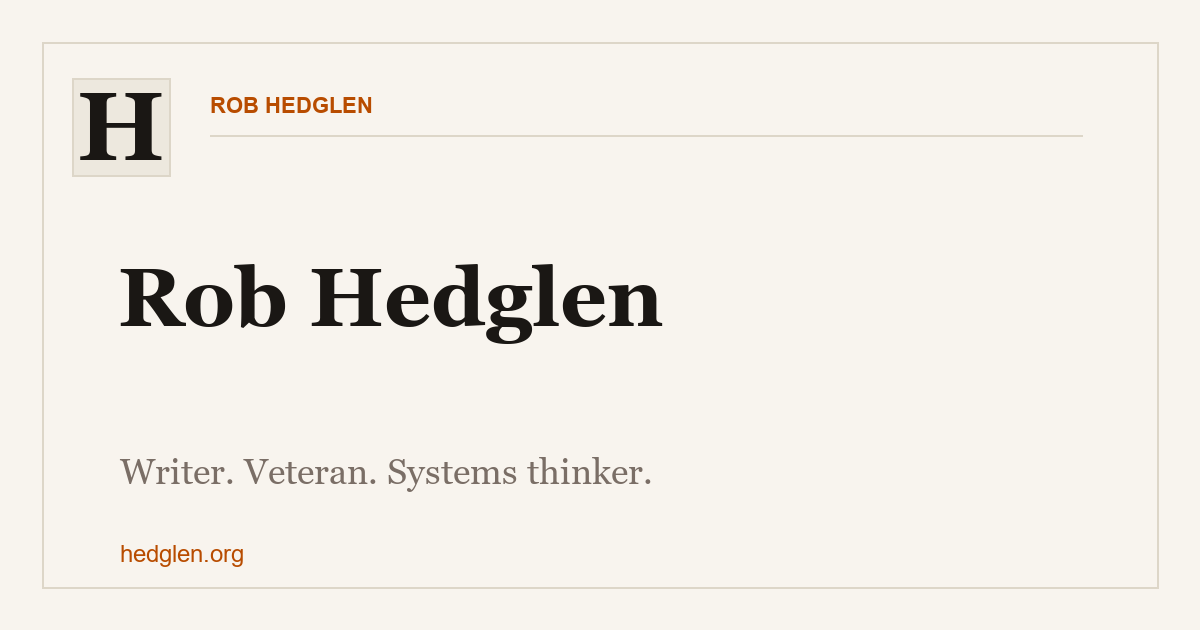
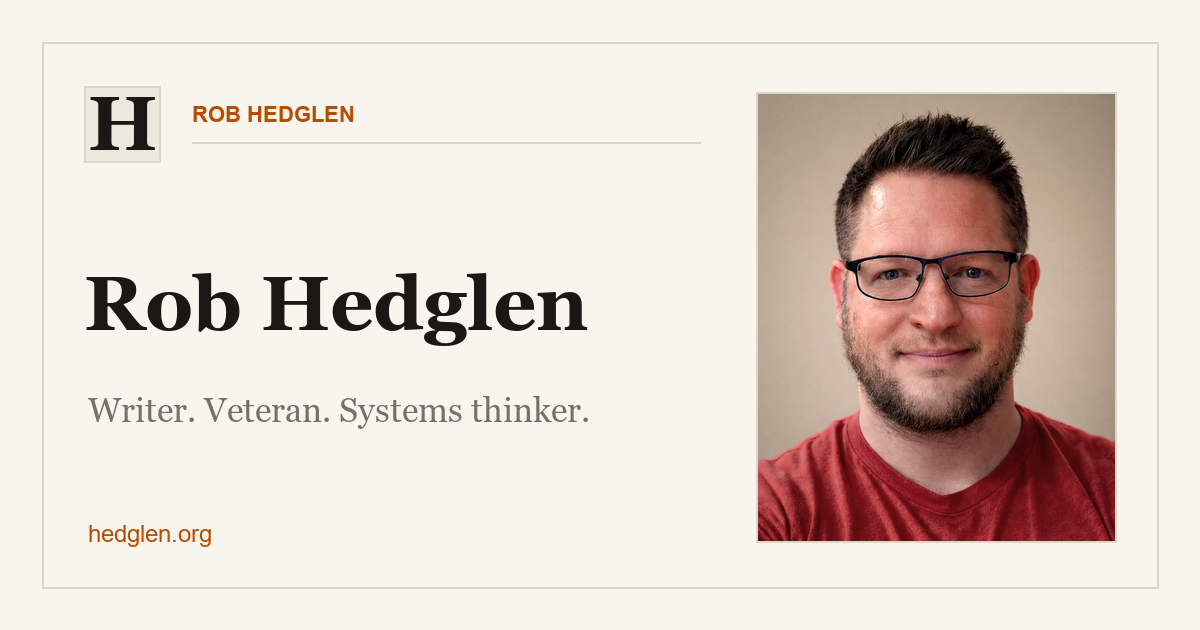
Add headshot to site

diff --git a/echo-hours.html b/echo-hours.html
@@ -45,6 +45,13 @@
       "@id": "https://hedglen.org/#rob-hedglen",
       "name": "Rob Hedglen",
       "url": "https://hedglen.org/",
+      "image": {
+        "@type": "ImageObject",
+        "url": "https://hedglen.org/images/rob-hedglen.jpg",
+        "contentUrl": "https://hedglen.org/images/rob-hedglen.jpg",
+        "dateCreated": "2026-03",
+        "caption": "Rob Hedglen, March 2026"
+      },
       "sameAs": [
         "https://github.com/hedglen"
       ]
@@ -53,7 +60,14 @@
       "@type": "Person",
       "@id": "https://hedglen.org/#rob-hedglen",
       "name": "Rob Hedglen",
-      "url": "https://hedglen.org/"
+      "url": "https://hedglen.org/",
+      "image": {
+        "@type": "ImageObject",
+        "url": "https://hedglen.org/images/rob-hedglen.jpg",
+        "contentUrl": "https://hedglen.org/images/rob-hedglen.jpg",
+        "dateCreated": "2026-03",
+        "caption": "Rob Hedglen, March 2026"
+      }
     },
     "isPartOf": {
       "@id": "https://hedglen.org/#website"

diff --git a/css/style.css b/css/style.css
@@ -519,6 +519,29 @@ code {
 
 /* ── About page ───────────────────────────────────────────── */
 
+.about-body::after {
+  clear: both;
+  content: '';
+  display: block;
+}
+
+.about-portrait {
+  float: right;
+  margin: 6px 0 28px 36px;
+  width: min(42%, 280px);
+}
+
+.about-portrait img {
+  aspect-ratio: 4 / 5;
+  background: var(--bg-alt);
+  border: 1px solid var(--border);
+  border-radius: 8px;
+  display: block;
+  height: auto;
+  object-fit: cover;
+  width: 100%;
+}
+
 .about-body p {
   font-size: 1.05rem;
   line-height: 1.85;
@@ -602,6 +625,11 @@ code {
   .featured { padding: 28px 24px; }
   .card { padding: 24px 20px; }
   .essay-header { padding: 48px 0 36px; }
+  .about-portrait {
+    float: none;
+    margin: 0 0 32px;
+    width: min(100%, 320px);
+  }
 
   .site-footer-inner { flex-direction: column; gap: 8px; }
 }

diff --git a/about.html b/about.html
@@ -37,6 +37,13 @@
       "@id": "https://hedglen.org/#rob-hedglen",
       "name": "Rob Hedglen",
       "url": "https://hedglen.org/",
+      "image": {
+        "@type": "ImageObject",
+        "url": "https://hedglen.org/images/rob-hedglen.jpg",
+        "contentUrl": "https://hedglen.org/images/rob-hedglen.jpg",
+        "dateCreated": "2026-03",
+        "caption": "Rob Hedglen, March 2026"
+      },
       "sameAs": [
         "https://github.com/hedglen"
       ],
@@ -85,6 +92,9 @@
     <span class="page-tagline">Background, interests, and the kind of work I keep returning to.</span>
 
     <div class="about-body">
+      <figure class="about-portrait">
+        <img src="images/rob-hedglen-about.jpg" alt="Portrait of Rob Hedglen" width="900" height="1125">
+      </figure>
 
       <p>
         I spent years in the Marine Corps, mostly doing things that don't translate neatly into

diff --git a/projects.html b/projects.html
@@ -36,7 +36,14 @@
       "@type": "Person",
       "@id": "https://hedglen.org/#rob-hedglen",
       "name": "Rob Hedglen",
-      "url": "https://hedglen.org/"
+      "url": "https://hedglen.org/",
+      "image": {
+        "@type": "ImageObject",
+        "url": "https://hedglen.org/images/rob-hedglen.jpg",
+        "contentUrl": "https://hedglen.org/images/rob-hedglen.jpg",
+        "dateCreated": "2026-03",
+        "caption": "Rob Hedglen, March 2026"
+      }
     },
     "mainEntity": {
       "@type": "ItemList",

diff --git a/writing.html b/writing.html
@@ -36,7 +36,14 @@
       "@type": "Person",
       "@id": "https://hedglen.org/#rob-hedglen",
       "name": "Rob Hedglen",
-      "url": "https://hedglen.org/"
+      "url": "https://hedglen.org/",
+      "image": {
+        "@type": "ImageObject",
+        "url": "https://hedglen.org/images/rob-hedglen.jpg",
+        "contentUrl": "https://hedglen.org/images/rob-hedglen.jpg",
+        "dateCreated": "2026-03",
+        "caption": "Rob Hedglen, March 2026"
+      }
     },
     "mainEntity": {
       "@type": "ItemList",

diff --git a/index.html b/index.html
@@ -39,6 +39,13 @@
         "@id": "https://hedglen.org/#rob-hedglen",
         "name": "Rob Hedglen",
         "url": "https://hedglen.org/",
+        "image": {
+          "@type": "ImageObject",
+          "url": "https://hedglen.org/images/rob-hedglen.jpg",
+          "contentUrl": "https://hedglen.org/images/rob-hedglen.jpg",
+          "dateCreated": "2026-03",
+          "caption": "Rob Hedglen, March 2026"
+        },
         "sameAs": [
           "https://github.com/hedglen"
         ],
